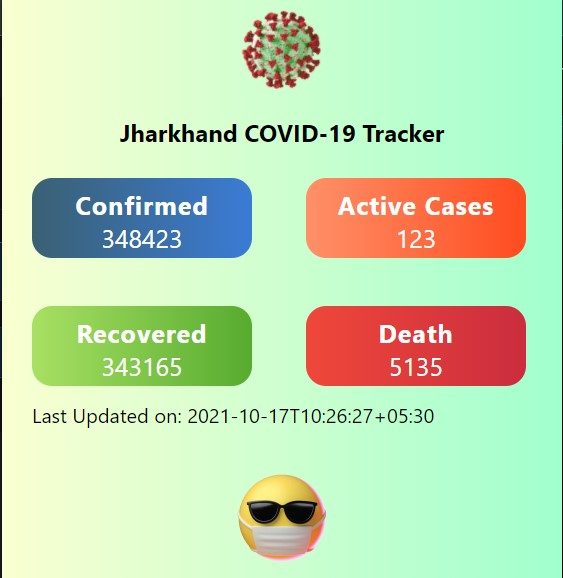
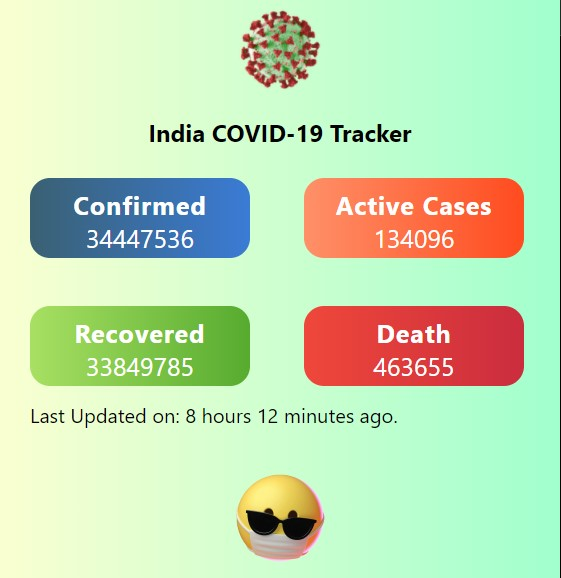
Changed the API

diff --git a/getdata.js b/getdata.js
@@ -1,25 +1,47 @@
-fetch('https://data.covid19india.org/v4/min/data.min.json')
+//Fetching the data from the api
+fetch('https://corona.lmao.ninja/v2/countries')
     .then(data => data.json())
     .then(coviddata => {
-        const confirmed = coviddata.JH.total.confirmed;
+        //Fetching the active cases
+        const confirmed = coviddata.find(coviddata => coviddata.country === 'India').cases;
         const confirmedelement = document.getElementById('confirmed');
 
-        const deceased = coviddata.JH.total.deceased;
+        //Fetching the deceased cases
+        const deceased = coviddata.find(coviddata => coviddata.country === 'India').deaths;
         const deathdelement = document.getElementById('death');
 
-        const recovered = coviddata.JH.total.recovered;
+        //Fetching the recovered cases
+        const recovered = coviddata.find(coviddata => coviddata.country === 'India').recovered;
         const dischargedelement = document.getElementById('discharged');
 
-        const active = document.getElementById('active');
+        // Fetching the active cases
+        const active_case = coviddata.find(coviddata => coviddata.country === 'India').active;
+        const activeelement = document.getElementById('active');
 
-        const last_updated = coviddata.JH.meta.last_updated;
+        //Fetching the last updated time
+        const last_updated = coviddata.find(coviddata => coviddata.country === 'India').updated;
         const last_update = document.getElementById('last_update');
 
-        const active_case = confirmed - (deceased + recovered);
-
+        // Setting the values to the elements
         confirmedelement.innerHTML = confirmed;
         deathdelement.innerHTML = deceased;
         dischargedelement.innerHTML = recovered;
-        last_update.innerHTML = last_updated;
-        active.innerHTML = active_case;
+        last_update.innerHTML = msToTime(last_updated);
+        activeelement.innerHTML = active_case;
+
     })
+    .catch(err => console.log(err)); //Catching the error and displaying it in the console.
+
+// function to convert milliseconds to time in hours, minutes 
+function msToTime(duration) {
+    var milliseconds = Math.floor((duration % 1000) / 100),
+        seconds = Math.floor((duration / 1000) % 60),
+        minutes = Math.floor((duration / (1000 * 60)) % 60),
+        hours = Math.floor((duration / (1000 * 60 * 60)) % 24);
+
+    // Adding 0 if the value is less than 10
+    minutes = (minutes < 10) ? "0" + minutes : minutes;
+    seconds = (seconds < 10) ? "0" + seconds : seconds;
+
+    return hours + " hours " + minutes + " minutes ago. "; //Returning the time in hours, minutes
+}

diff --git a/popup.html b/popup.html
@@ -10,9 +10,9 @@
 </head>
 
 <body>
-    <img src="Images/covid.gif" alt="COVID-19" width="100px" height="100px">
+    <img class="center_img" src="Images/covid.gif" alt="COVID-19" width="100px" height="100px">
     <br>
-    <h1>Jharkhand COVID-19 Tracker</h1>
+    <h1>India COVID-19 Tracker</h1>
     <div class="container">
         <div class="item_tab">
             <div class="item" id="Total_case">
@@ -32,9 +32,10 @@
                 <p id="death"></p>
             </div>
         </div>
-        <p class="last_update">Last Updated on: <span id="last_update"></span></p>
+        <p class="last_update">Last updated about <span id="last_update"><img class="Loading" src="Images/loading.gif"
+                    alt=""></span></p>
     </div>
-    <img src="Images/smiliy.gif" alt="Unable to load images" width="120px" height="120px">
+    <img class="center_img" src="Images/smiliy.gif" alt="Unable to load images" width="120px" height="120px">
     <script type="text/javascript" src="getdata.js"></script>
 </body>
 

diff --git a/style.css b/style.css
@@ -48,7 +48,7 @@ body {
   background: -webkit-linear-gradient(to right, #ff9068, #ff4b1f);
   background: linear-gradient(to right, #ff9068, #ff4b1f);
 }
-img {
+.center_img {
   display: block;
   margin-right: auto;
   margin-left: auto;
@@ -65,4 +65,12 @@ h1 {
 .title {
   font-weight: bold;
   letter-spacing: 1px;
+}
+.Loading {
+  transform: translateY(15px);
+  display: inline-block;
+  margin-right: auto;
+  margin-left: auto;
+  height: 40px;
+  width: 200px !important;
 }

diff --git a/README.md b/README.md
@@ -1,5 +1,5 @@
 # COVID-19 case tracker (Google Chrome Extension)
-It is a google chrome extension that tracks the COVID cases. Currently, it only tracks the COVID case for Jharkhand, INDIA. It shows you the *Total confirm cases, Active cases, Death Cases, Recovered Cases*.
+It is a google chrome extension that tracks the COVID cases. It shows you the *Total confirm cases, Active cases, Death Cases, Recovered Cases*.
 <br/><br>
 
 # Deployment
@@ -26,7 +26,7 @@ chrome://extensions
 <br/><br/>
 
 # API used
-https://github.com/covid19india/api.git
+https://corona.lmao.ninja
 <br/><br/>
 
 # Screenshot
@@ -34,7 +34,7 @@ https://github.com/covid19india/api.git
 <br/><br/>
 # Author 
 **DEEPAK AGARWAL** <br/><br/>
-![Logo](https://github.com/deepaksanwaria/Swarastra/blob/7377029fa0a064e39c19538f6c22cf89b44c1a03/Readme-Image/Deepak-Agarwal.png?raw=true)
+![IMAGE](Images/Deepak-Agarwal.png)
 <br/><br/>
 [![portfolio](https://img.shields.io/badge/portfolio-000?style=for-the-badge&logo=ko-fi&logoColor=white)](https://github.com/deepaksanwaria/)
 [![linkedin](https://img.shields.io/badge/linkedin-0A66C2?style=for-the-badge&logo=linkedin&logoColor=white)](https://www.linkedin.com/in/deepak-agarwal-2460831a9/)
